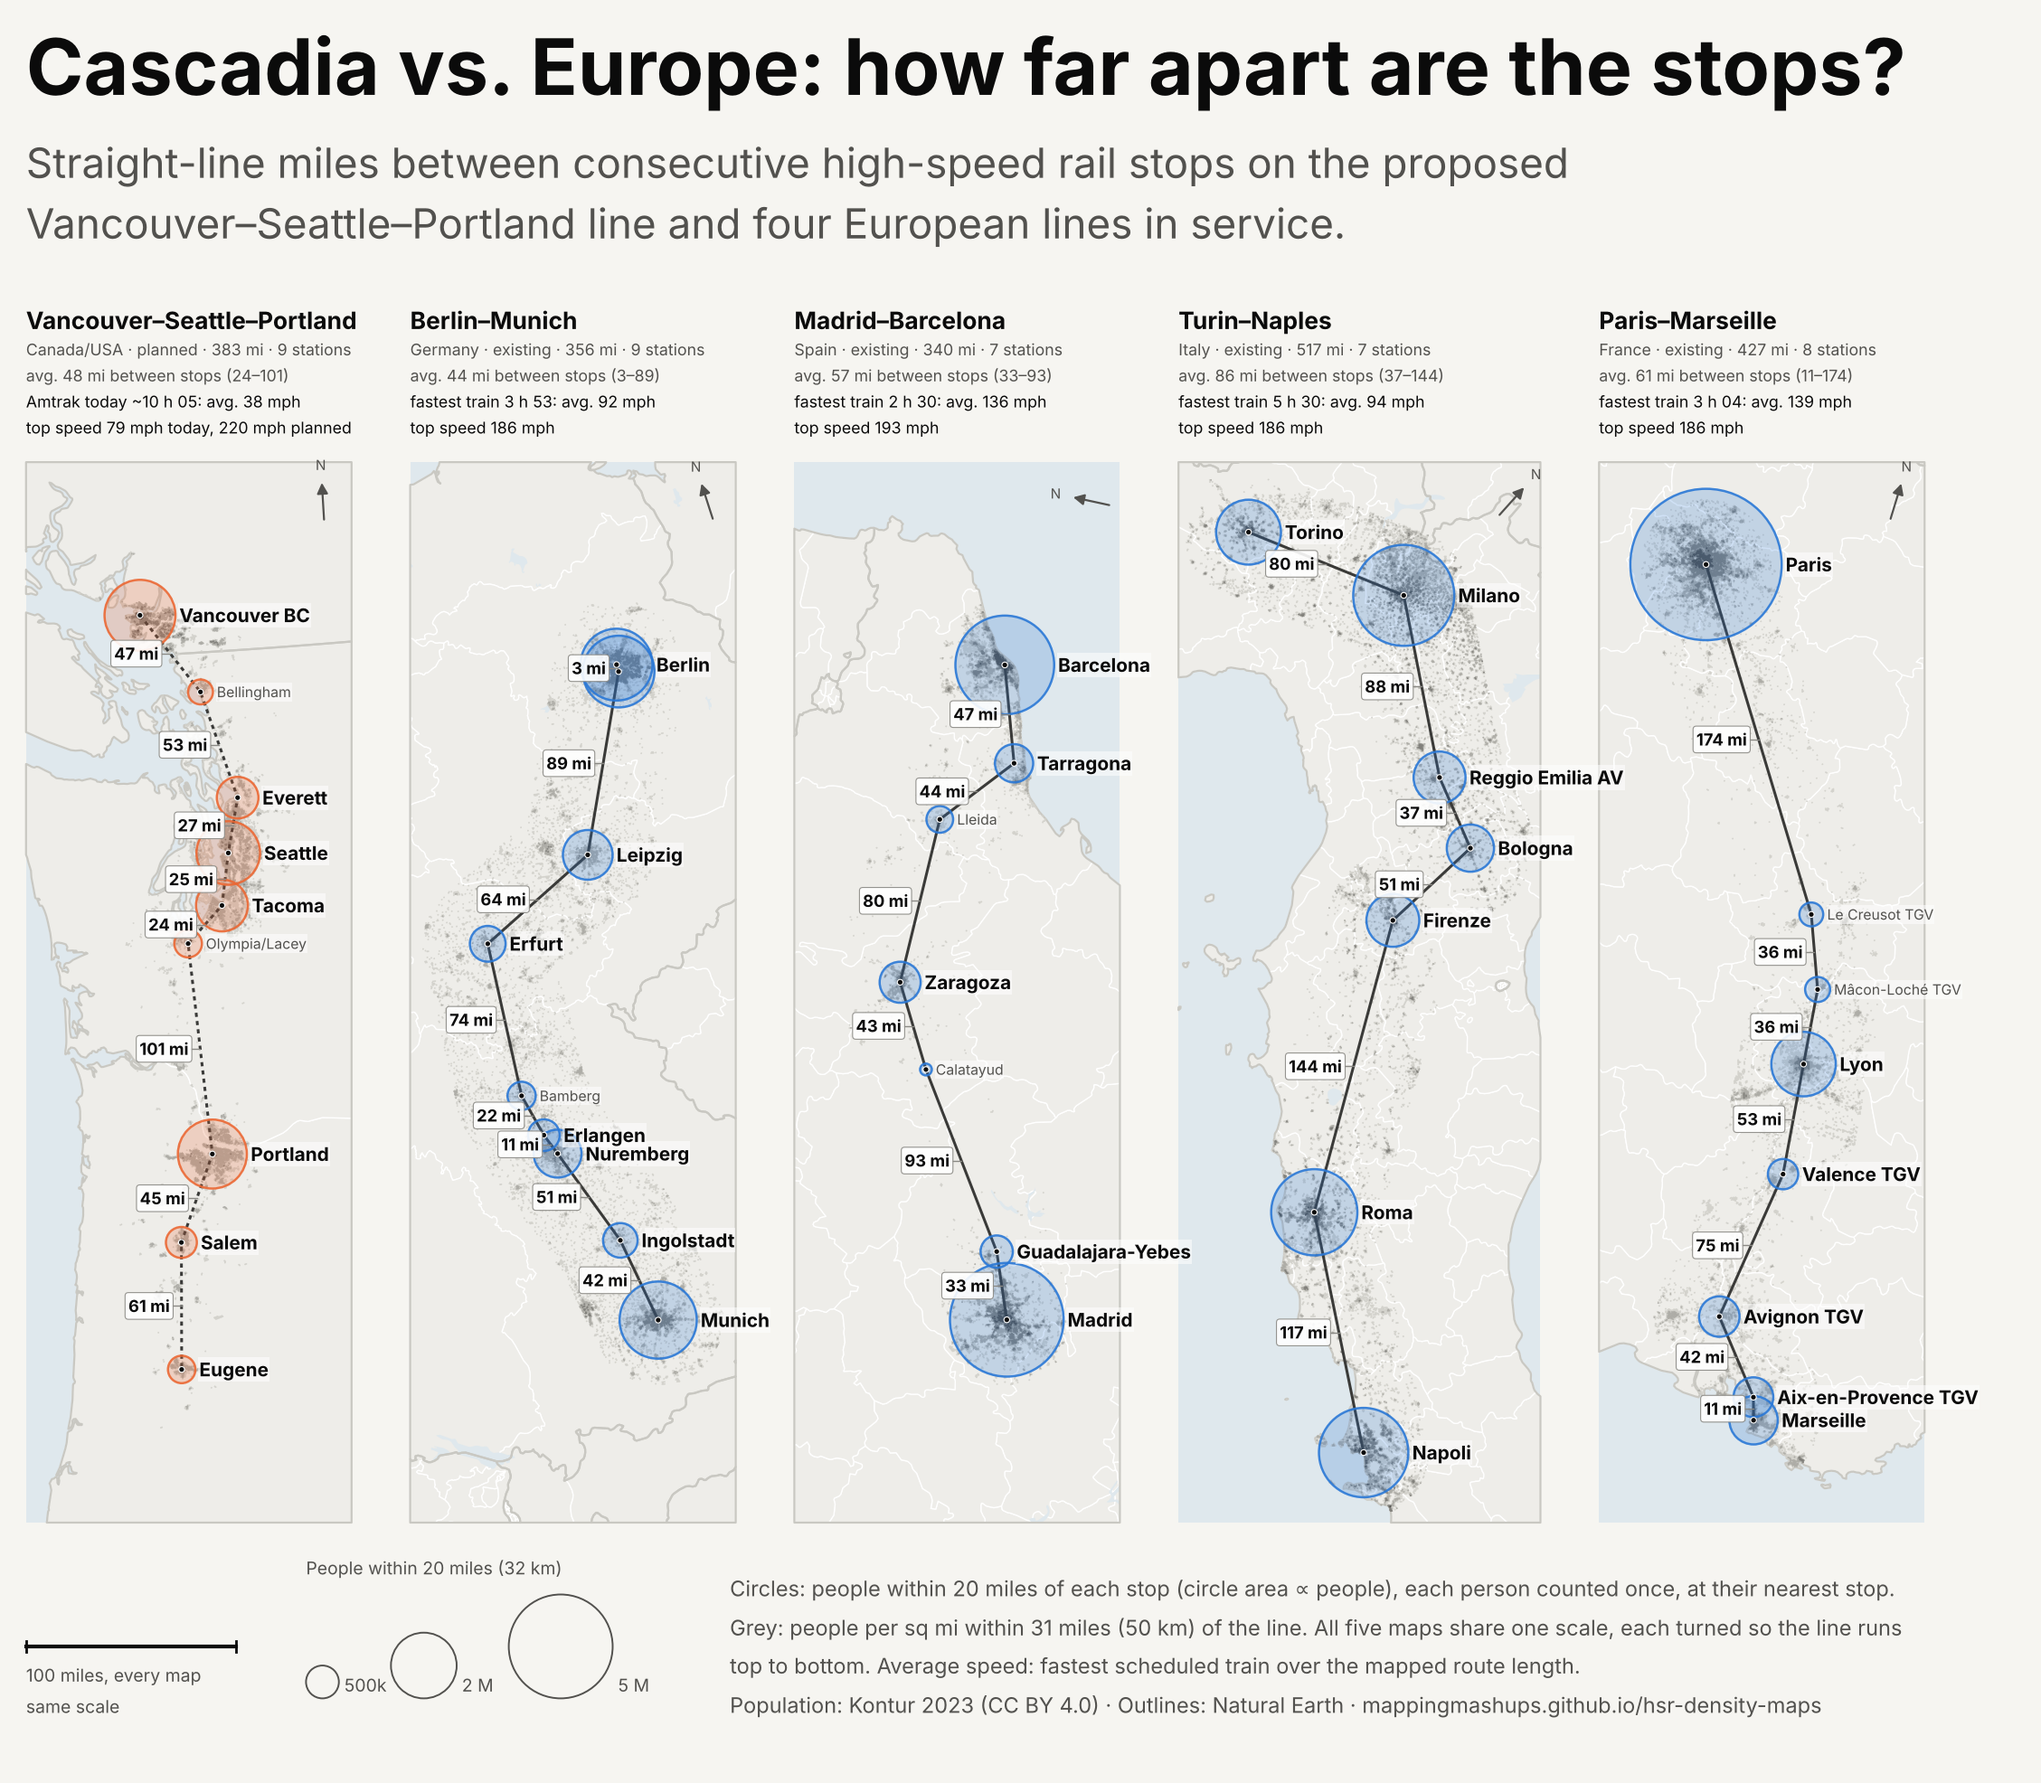
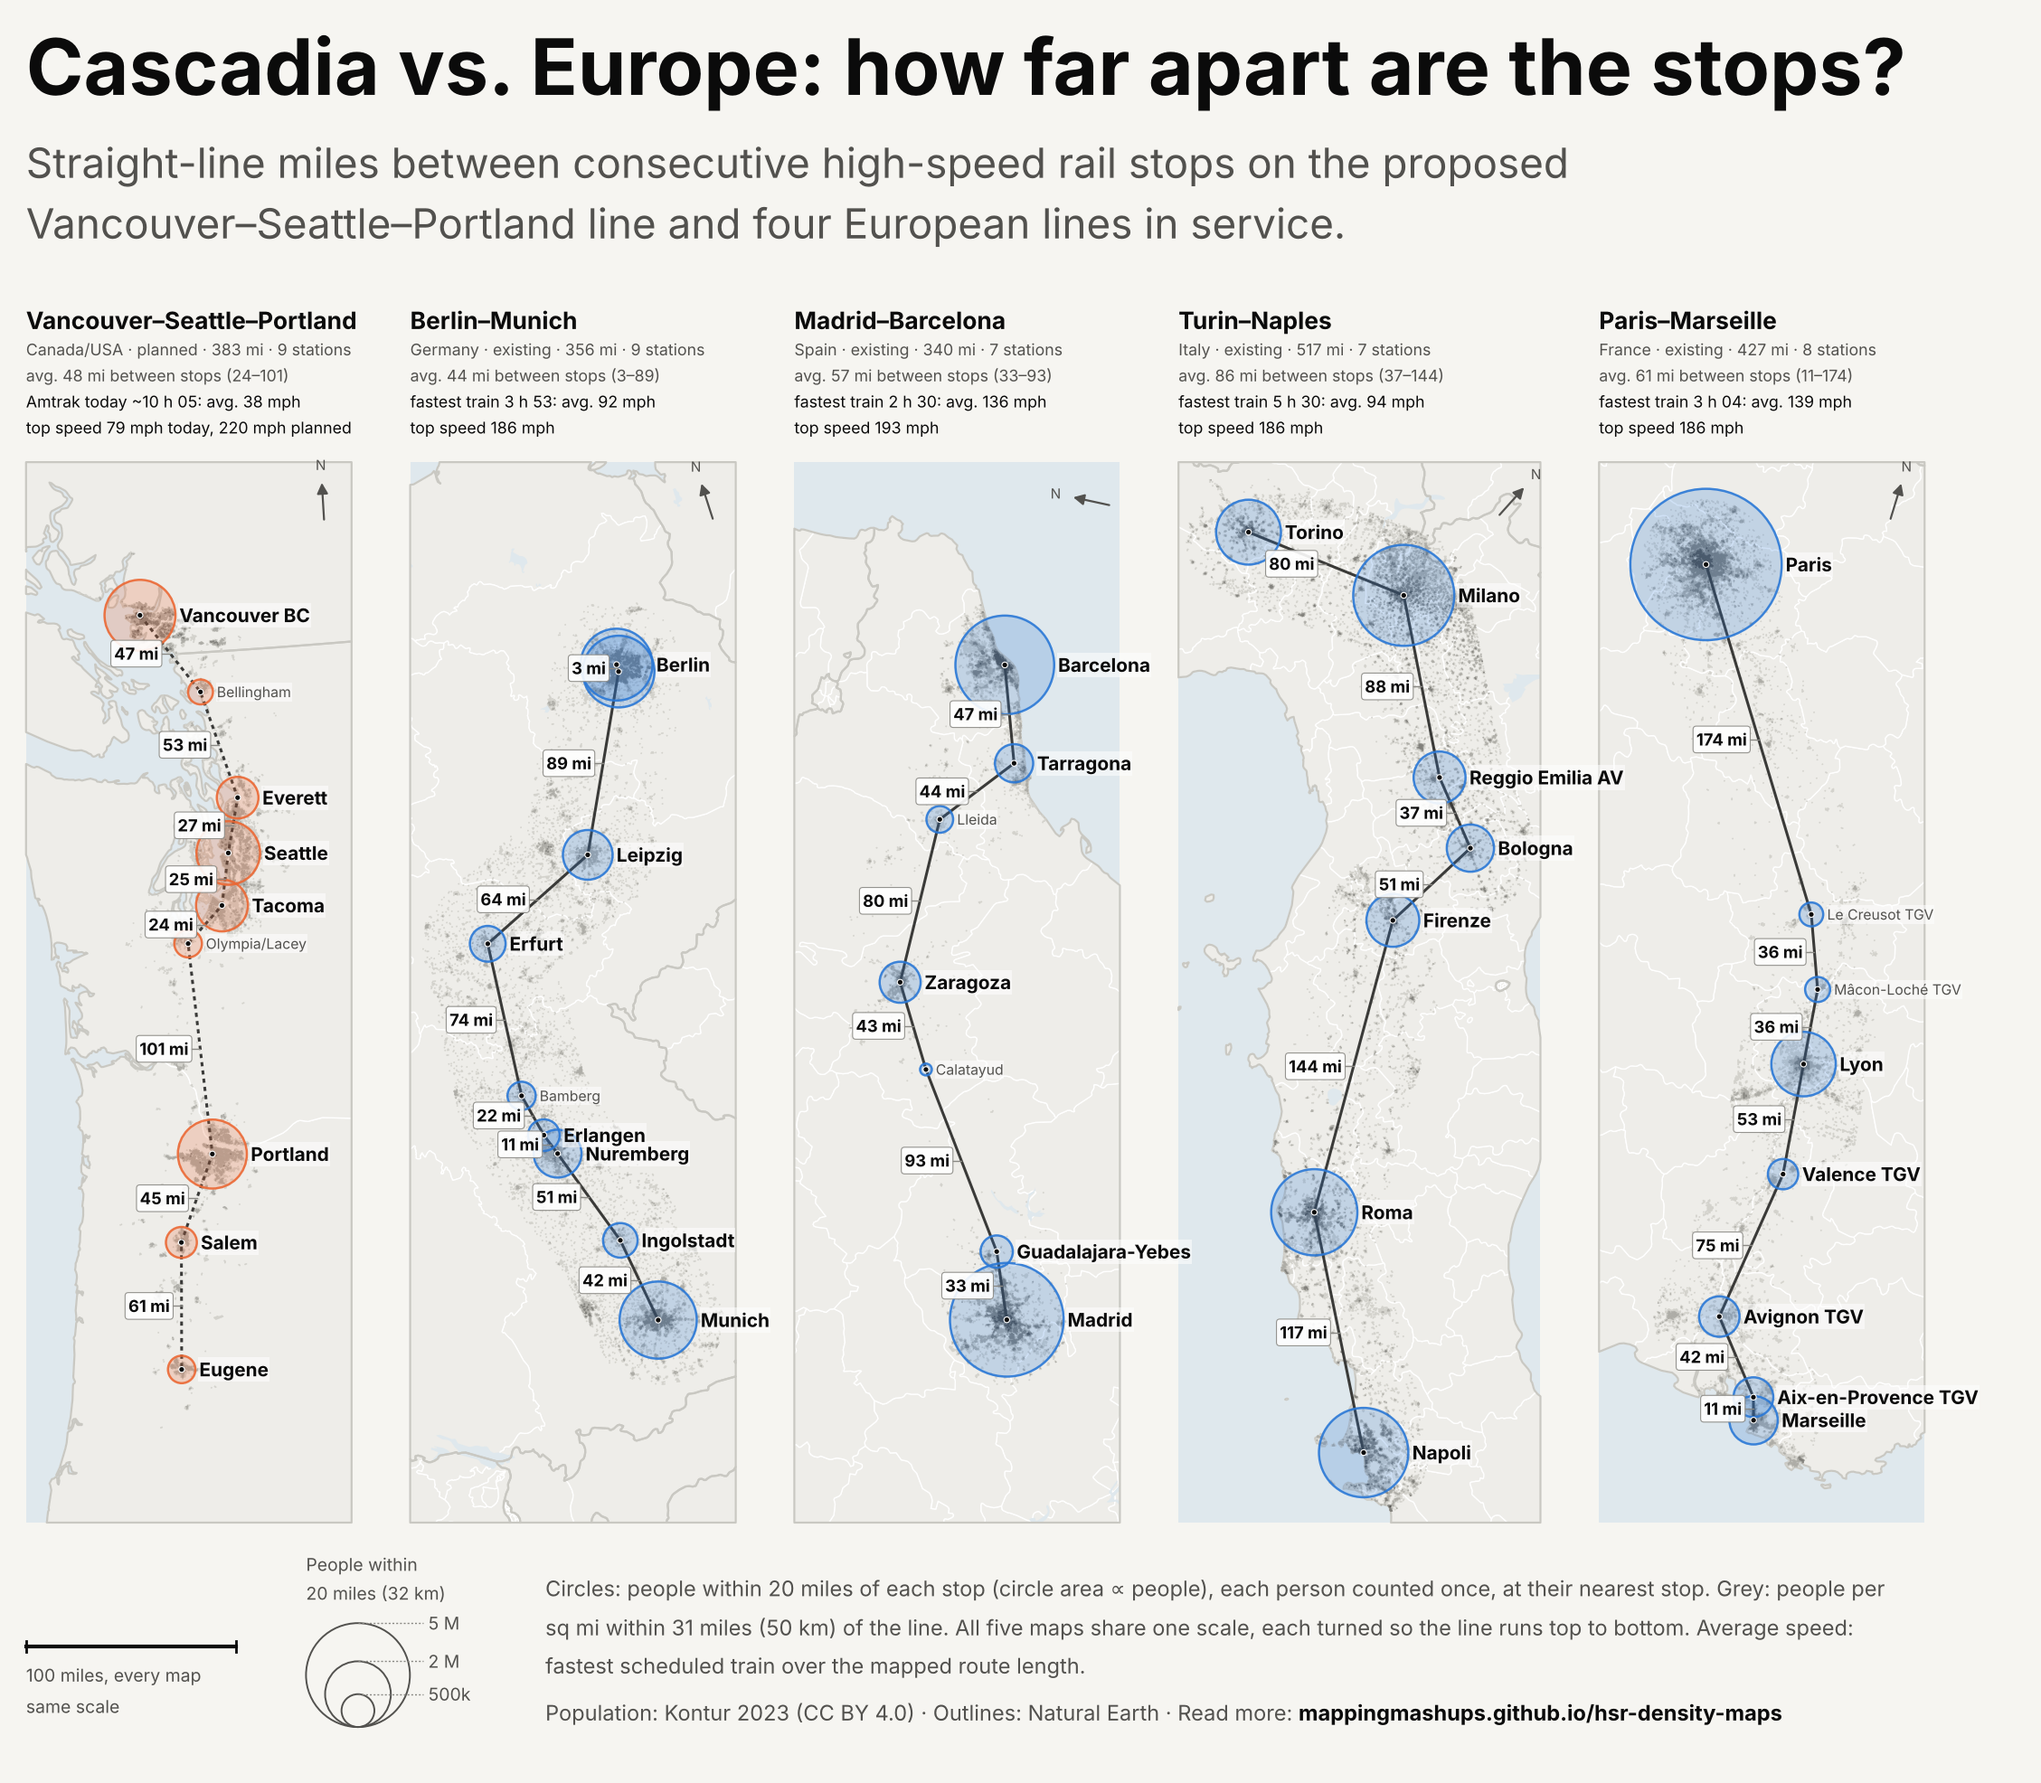
Social image: nested circle key, credit line with bold Read more URL
Claude-Session: https://claude.ai/code/session_01JpWq1kKE2oNV85oNVQWwXU

Changed region(s): [[0.1551, 0.8661, 0.9304, 0.9899], [0.1551, 0.8661, 0.2171, 0.8971]]

diff --git a/plot_maps.py b/plot_maps.py
@@ -385,13 +385,14 @@ def draw(radii, density, fname, title, subtitle, footprint="density", order=None
 
 KM_PER_MI = 1.609344
 SOCIAL_BAND = 180   # km of page below the panels for the key, notes and credits
-SOCIAL_CREDIT = ("Population: Kontur 2023 (CC BY 4.0) · Outlines: Natural Earth · "
-                 "mappingmashups.github.io/hsr-density-maps")
+SOCIAL_CREDIT = "Population: Kontur 2023 (CC BY 4.0) · Outlines: Natural Earth · Read more: "
+SOCIAL_URL = "mappingmashups.github.io/hsr-density-maps"   # set in bold after the credit
 
 
 def social_key(ax, y, page_w, radii, density, miles=False, notes=""):
-    """Below the panels: scale bar and circle-size key on the left, explanatory notes on
-    the right, then a credit line."""
+    """Below the panels: scale bar and nested circle-size key on the left, explanatory notes
+    and credits on the right, running to the right margin."""
+    import textwrap
     fs = 7
     ky = y - 95            # centre line of the key row
     x = 0
@@ -401,24 +402,31 @@ def social_key(ax, y, page_w, radii, density, miles=False, notes=""):
         ax.plot([x + t, x + t], [ky - 4, ky + 4], color=INK, lw=1)
     ax.text(x, ky - 12, f"{unit}, every map\nsame scale", fontsize=fs, ha="left", va="top", color=INK2, linespacing=1.4)
     x += 215
+    # nested circles on one baseline; each value sits level with the top of its circle
     r = max(radii)
     rlab = f"{r / KM_PER_MI:.0f} miles ({r:.0f} km)" if miles else f"{r:g} km"
     refs = [5e5, 2e6, 5e6] if density <= 1000 else [1e6, 5e6, 15e6]
-    ax.text(x, ky + 52, f"People within {rlab}", fontsize=fs, va="bottom", color=INK2)
-    base = ky - 40
+    rmax = r_km(max(refs), density)
+    base, cx = ky - 62, x + rmax
+    lx = cx + rmax + 14
     for v in refs:
         rr = r_km(v, density)
-        ax.add_patch(Circle((x + rr, base + rr), rr, fc="none", ec=INK2, lw=0.7))
-        ax.text(x + 2 * rr + 4, base + 2, f"{v/1e6:g} M" if v >= 1e6 else f"{v/1e3:g}k",
-                fontsize=fs, ha="left", va="bottom", color=INK2)
-        x += 2 * rr + 40
+        top = base + 2 * rr
+        ax.add_patch(Circle((cx, base + rr), rr, fc="none", ec=INK2, lw=0.7))
+        ax.plot([cx, lx - 4], [top, top], color=INK3, lw=0.5, ls=(0, (1.5, 1.5)))
+        ax.text(lx, top, f"{v/1e6:g} M" if v >= 1e6 else f"{v/1e3:g}k",
+                fontsize=fs, ha="left", va="center", color=INK2)
+    ax.text(x, base + 2 * rmax + 12, f"People within\n{rlab}", fontsize=fs, va="bottom", color=INK2, linespacing=1.3)
+    x = lx + 40
     # notes + credits: wrapped to run from beside the circle key to the right margin
-    import textwrap
-    nx, fs_n = x + 50, 8.5
+    nx, fs_n, ls = x + 50, 8.5, 1.5
     per_line = int((page_w + 70 - nx) / (0.5 * fs_n / 72 / 0.0072))   # ~0.5 em per character; 0.0072 in per km
-    paras = [p for p in notes.split("\n") if p] + [SOCIAL_CREDIT]
-    text = "\n".join(textwrap.fill(p, per_line) for p in paras)
-    ax.text(nx, ky + 58, text, fontsize=fs_n, va="top", color=INK2, linespacing=1.5)
+    lines = [l for p in notes.split("\n") if p for l in textwrap.wrap(p, per_line)]
+    body = ax.text(nx, ky + 58, "\n".join(lines), fontsize=fs_n, va="top", color=INK2, linespacing=ls)
+    t = ax.annotate(SOCIAL_CREDIT, xy=(0, 0), xycoords=body, xytext=(0, -fs_n * (ls - 1) * 1.2),
+                    textcoords="offset points", va="top", ha="left", fontsize=fs_n, color=INK2)
+    ax.annotate(SOCIAL_URL, xy=(1, 1), xycoords=t, va="top", ha="left",
+                fontsize=fs_n, weight="bold", color=INK)
 
 
 def save(fig, fname, dpi):

diff --git a/make_social.py b/make_social.py
@@ -57,7 +57,7 @@ if __name__ == "__main__":
             "Straight-line miles between consecutive high-speed rail stops on the proposed\n"
             "Vancouver–Seattle–Portland line and four European lines in service.",
             notes=f"Circles: people within {RADIUS / pm.KM_PER_MI:.0f} miles of each stop (circle area ∝ people), each person "
-                  "counted once, at their nearest stop. Grey: people per sq mi within 31 miles (50 km) of the line. "
+                  "counted once, at their nearest stop. Grey: people per sq\u00a0mi within 31 miles (50 km) of the line. "
                   "All five maps share one scale, each turned so the line runs top to bottom. "
                   "Average speed: fastest scheduled train over the mapped route length.",
             order=ORDER, dpi=200, social=True, miles=True, extra=speed_lines())
